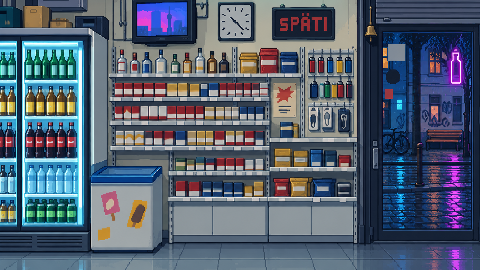
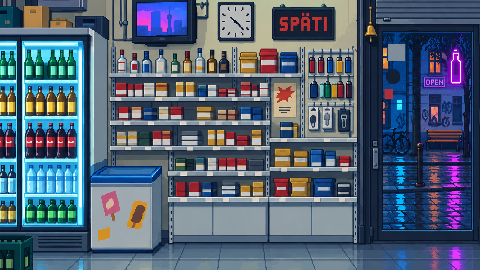
scene/backdrop = r6 (astra 77 over r5's 74): stock variety, warm centre zone, Berlin cues outside, Pfand crate, freezer

diff --git a/docs/03-build-log.md b/docs/03-build-log.md
@@ -1146,3 +1146,4 @@ conversation is open — and the log rows now carry `queue` and `talking`.
 - **01:22 — v5 verdict (astra, no schema, 55 s): 73.** Trajectory on the composed hero frame: 71 → 74 → 70/74 → 73 — code-side changes have plateaued; every remaining fix is art: Lena's pose (elbows/forearms on the laminate, longer locks, head tilt — per the concept), a deeper countertop surface (45–55 game px, props with contact shadows), stronger light zones (warm cream on laminate + upward skin, darker periphery, cyan rim), material clusters on packs/laminate/register, Berlin cues outside (OPEN neon, door stickers, tagged plaster, bench, Pfand crate), takeaway cup instead of the café cup. Also: the Mate card competes during dialogue → hide/collapse it while a conversation is open. Counter r7 (takeaway cup, crate, newspaper, prop weights, laminate edge within the top 20 rows) and Lena r5 (leaning pose framed for the 30-px overlap) generating.
 - **01:43 — round 4 (art):** Lena r5 (astra, 293 s): leaning pose, both forearms on the counter line, bottle standing on it, longer locks; counter r7 (389 s): takeaway cup, newspaper, Pfand crate, phone, kitchen roll, till, card reader on one laminate plane, edge in the top 10 rows. v7 (both swapped in, lift still 20) judged **72** — the r7 edge sits 27 px higher so the lift now hid the forearms again (composition 72, character 68, palette 62 "predominantly gray", ui 76 ↑). `COUNTER_LIFT` → 0 for r7; light pool alphas raised (night warm 0.17, edge 0.30); PORTRAIT_TOP_MIN 24 → 14. Lena warm/upset regenerating from the r5 raw so the expression swap keeps the pose.
 - **01:55 — v8 verdict 73** (composition 74 ↑ · palette 61 ↓ · pixel 73 · character 71 · ui 73 · Berlin 87). "Make Lena visibly lean on the counter; her arms disappear behind its back edge" — the behind-the-counter layering cannot show forearms ON the laminate. Decision: a LEANING staging — the sprite ends at the forearms' underside (the generator paints only the key colour below the counter line, so `trim` cuts there) and is layered IN FRONT of the counter with the forearm line a few px onto the laminate. Lena r6 generating that way, with warm ivory/amber highlight clusters (the judge: "make the warm pool visible through surface shading rather than a translucent wash"). Also queued (after the fleet releases night.gd): hide the Mate card during a conversation, quieter panel border, HUD inset.
+- **01:58 — backdrop r6 promoted: astra 77** (r5 was 74; composition 81 · palette 73 · pixel 75 · Berlin 87). Stock variety, warm centre zone, OPEN neon, stickers, graffiti, bench, wet pavement, Pfand crate, sticker-covered ice-cream freezer. Remaining notes: the warm pool still too weak ("predominantly steel-blue"), tobacco wall still rows of rectangles, fixtures flat, pavement streaks too busy. Composed v9 (backdrop r6 + counter r7 + Lena r5) judging.
